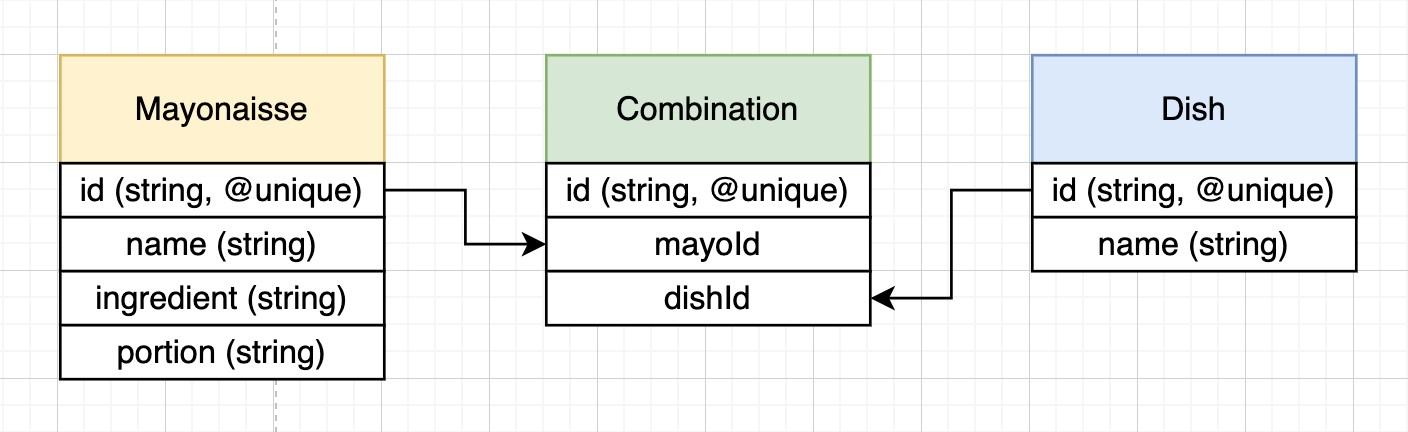
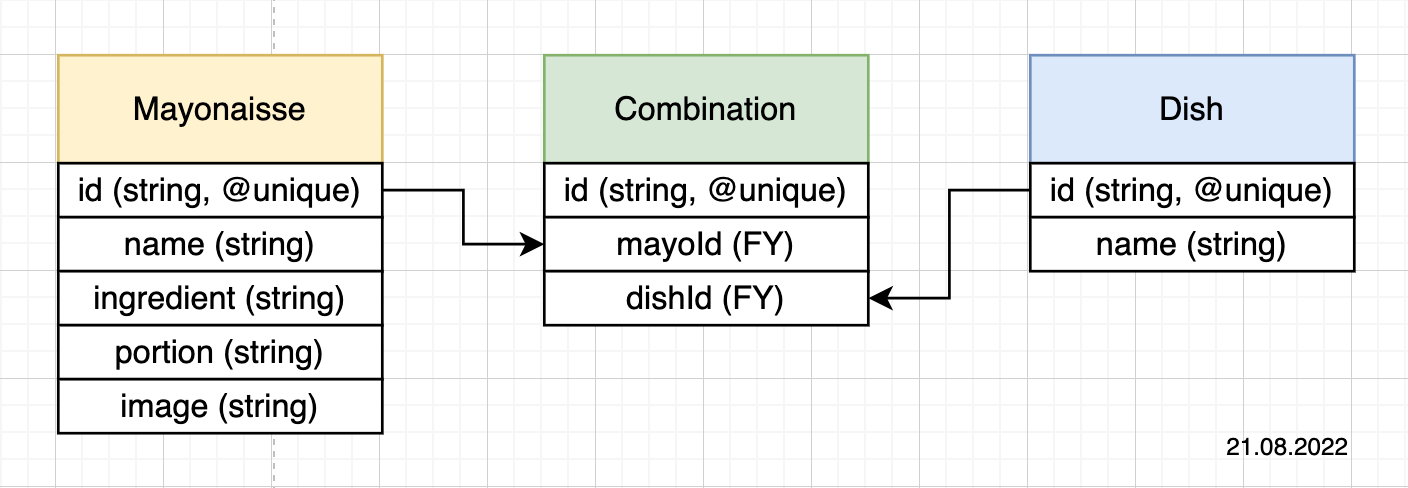
updated ERD

diff --git a/prisma/rawMayonaisse.ts b/prisma/rawMayonaisse.ts
@@ -1,0 +1,5 @@
+type Mayonaisse = {
+  name: string;
+  ingredient: string;
+  portion: string;
+};
